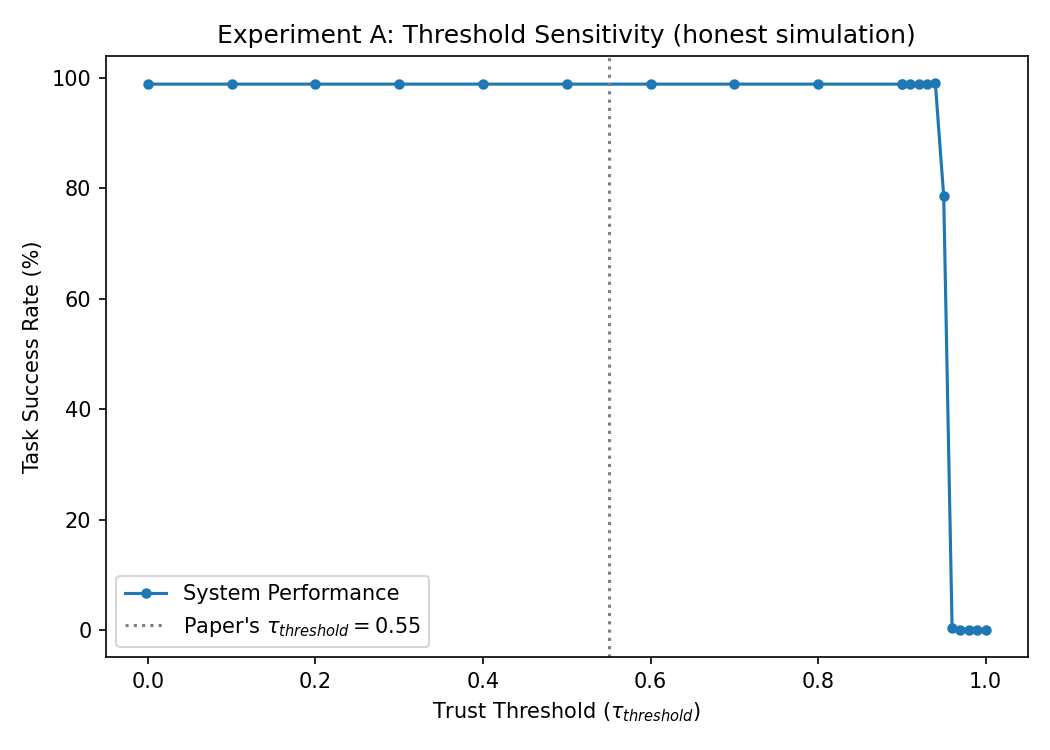
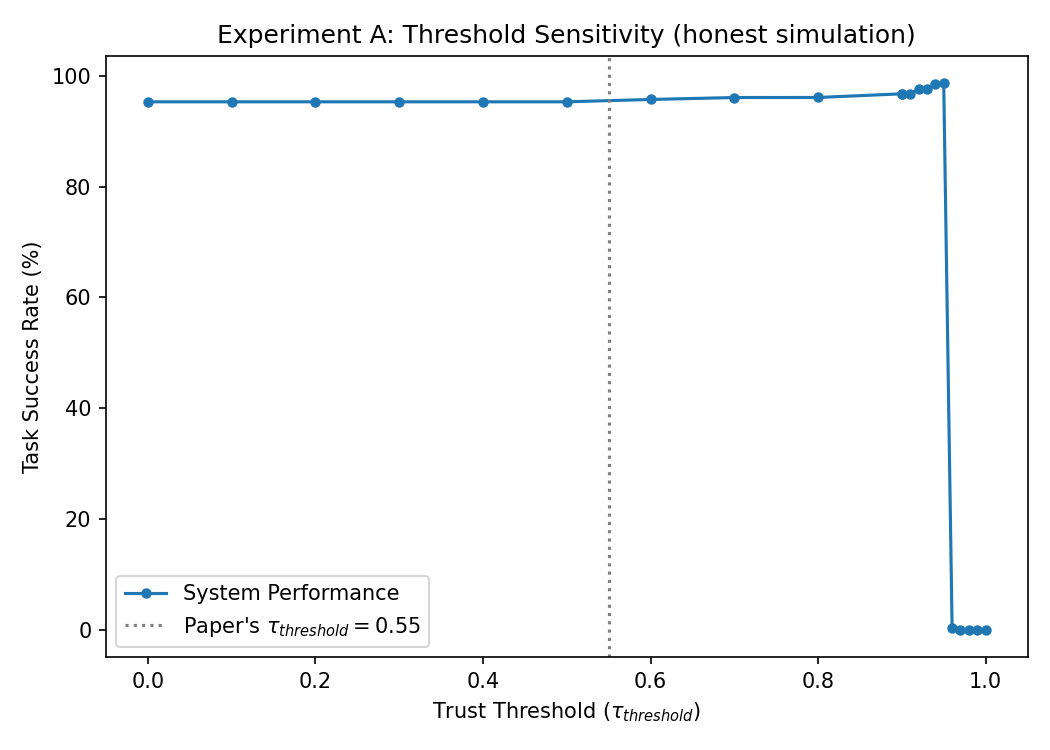
Fix node dispatch to actually use weighted-random selection
TrustOrchestrator.dispatch() was calling the strict-argmax select_node()
instead of a weighted-random pick, contrary to what the README already
claimed. In practice this concentrated nearly all traffic onto 1-2
top-ranked nodes for the entire run, so misbehaving nodes rarely got
dispatched to at all -- making the framework look more robust than it is
and the trust threshold nearly irrelevant (flat Experiment A line). Caught
while building a per-task trace for an animated visualization, where the
same few node IDs firing on every event made it obvious.

dispatch() now does a genuine utility-weighted random choice among eligible
nodes (select_node() stays as a separate deterministic method for tests
that need it). Regenerated all experiment results and results/*.png under
the fix, and rewrote the README's "Honest results" section with the
corrected numbers and a note on what changed and why.

Also adds run_trust_based_traced() (trust_offload/simulator.py) and a new
POST /simulate/live backend endpoint, returning a per-task dispatch trace
for an in-progress animated network diagram on the demo frontend.

diff --git a/trust_offload/orchestrator.py b/trust_offload/orchestrator.py
@@ -18,7 +18,8 @@ design choice, not a value taken from the paper.
 
 from __future__ import annotations
 
-from dataclasses import dataclass
+import random
+from dataclasses import dataclass, field
 
 from . import trust as trust_mod
 from .node import EdgeNode
@@ -34,9 +35,15 @@ class DispatchResult:
 
 
 class TrustOrchestrator:
-    def __init__(self, nodes: list[EdgeNode], tau_threshold: float = trust_mod.QUARANTINE_CUTOFF):
+    def __init__(
+        self,
+        nodes: list[EdgeNode],
+        tau_threshold: float = trust_mod.QUARANTINE_CUTOFF,
+        rng: random.Random | None = None,
+    ):
         self.nodes = nodes
         self.tau_threshold = tau_threshold
+        self.rng = rng or random.Random()
 
     def _eligible_nodes(self) -> list[EdgeNode]:
         # Stage 3a: filter out quarantined nodes and anything below threshold.
@@ -48,14 +55,32 @@ class TrustOrchestrator:
         return UTILITY_TRUST_WEIGHT * node.trust_score + (1 - UTILITY_TRUST_WEIGHT) * resource_fit
 
     def select_node(self) -> EdgeNode | None:
+        """Deterministic top-ranked eligible node (argmax over utility)."""
         candidates = self._eligible_nodes()
         if not candidates:
             return None
         return max(candidates, key=self._utility)
 
+    def _select_node_weighted(self) -> EdgeNode | None:
+        """Utility-weighted random pick among eligible nodes -- the actual
+        dispatch policy. A strict argmax (select_node()) was tried first and
+        concentrated nearly all traffic onto a single top-ranked node
+        regardless of how many other nodes were eligible, which made the
+        trust threshold irrelevant to the outcome (see README's "honest
+        results" discussion). Weighted-random spreads load roughly the way a
+        real scheduler would, while still favoring higher-utility nodes.
+        """
+        candidates = self._eligible_nodes()
+        if not candidates:
+            return None
+        weights = [self._utility(n) for n in candidates]
+        if sum(weights) <= 0:
+            return self.rng.choice(candidates)
+        return self.rng.choices(candidates, weights=weights, k=1)[0]
+
     def dispatch(self) -> DispatchResult:
         """Selects a node for one task and runs it (Stages 1-4 for one task)."""
-        node = self.select_node()
+        node = self._select_node_weighted()
         if node is None:
             # No trustworthy node available -- task cannot be safely offloaded.
             return DispatchResult(node_id=None, success=False, latency_ms=0.0)

diff --git a/trust_offload/simulator.py b/trust_offload/simulator.py
@@ -141,8 +141,43 @@ def run_trust_based(
     nodes = build_node_population(
         n_nodes, malicious_fraction, whitewashing_fraction, resource_exhaustion_fraction, seed=seed
     )
-    orchestrator = TrustOrchestrator(nodes, tau_threshold=tau_threshold)
+    orchestrator = TrustOrchestrator(nodes, tau_threshold=tau_threshold, rng=random.Random(seed))
     return run_simulation(orchestrator, n_tasks, workload_seed=seed)
+
+
+def run_trust_based_traced(
+    n_nodes: int,
+    n_tasks: int,
+    malicious_fraction: float = 0.15,
+    tau_threshold: float = trust_mod.QUARANTINE_CUTOFF,
+    seed: int | None = None,
+) -> tuple[list[dict], list[dict]]:
+    """Like run_trust_based, but returns a per-task event trace (which node
+    was dispatched to, the outcome, and that node's resulting trust/
+    quarantine state) instead of only aggregate metrics -- used to drive the
+    live animated network diagram on the demo frontend.
+    """
+    nodes = build_node_population(n_nodes, malicious_fraction, seed=seed)
+    node_summaries = [{"node_id": n.node_id, "initial_trust": n.trust_score} for n in nodes]
+    node_by_id = {n.node_id: n for n in nodes}
+
+    orchestrator = TrustOrchestrator(nodes, tau_threshold=tau_threshold, rng=random.Random(seed))
+    events = []
+    for i in range(n_tasks):
+        result = orchestrator.dispatch()
+        node = node_by_id.get(result.node_id) if result.node_id else None
+        events.append(
+            {
+                "task_index": i,
+                "node_id": result.node_id,
+                "success": result.success,
+                "latency_ms": result.latency_ms,
+                "trust_after": node.trust_score if node else None,
+                "quarantined": node.quarantined if node else False,
+            }
+        )
+
+    return node_summaries, events
 
 
 def run_baseline(

diff --git a/backend/main.py b/backend/main.py
@@ -16,7 +16,7 @@ from fastapi import FastAPI
 from fastapi.middleware.cors import CORSMiddleware
 from pydantic import BaseModel, Field
 
-from trust_offload.simulator import run_baseline, run_trust_based
+from trust_offload.simulator import run_baseline, run_trust_based, run_trust_based_traced
 
 app = FastAPI(title="TBTOF Demo API")
 
@@ -65,6 +65,14 @@ class SimulateRequest(BaseModel):
     seed: int = Field(default=42)
 
 
+class LiveSimulateRequest(BaseModel):
+    n_nodes: int = Field(default=20, ge=6, le=36)
+    n_tasks: int = Field(default=300, ge=10, le=1500)
+    malicious_fraction: float = Field(default=0.15, ge=0.0, le=1.0)
+    tau_threshold: float = Field(default=0.55, ge=0.0, le=1.0)
+    seed: int = Field(default=42)
+
+
 @app.get("/health")
 def health():
     return {"status": "ok"}
@@ -100,6 +108,21 @@ def simulate(req: SimulateRequest):
         "trust_based": {**shape_result(trust_result), "edp_normalized": trust_result.edp / baseline_edp},
         "baseline": {**shape_result(baseline_result), "edp_normalized": 1.0},
     }
+
+
+@app.post("/simulate/live")
+def simulate_live(req: LiveSimulateRequest):
+    n_nodes = clamp(req.n_nodes, 6, 36)
+    n_tasks = clamp(req.n_tasks, 10, 1500)
+
+    nodes, events = run_trust_based_traced(
+        n_nodes=n_nodes,
+        n_tasks=n_tasks,
+        malicious_fraction=req.malicious_fraction,
+        tau_threshold=req.tau_threshold,
+        seed=req.seed,
+    )
+    return {"nodes": nodes, "events": events}
 
 
 @app.get("/experiments/threshold-sensitivity")

diff --git a/tests/test_simulator.py b/tests/test_simulator.py
@@ -1,0 +1,33 @@
+from trust_offload.simulator import run_trust_based_traced
+
+
+def test_traced_returns_one_event_per_task():
+    _nodes, events = run_trust_based_traced(n_nodes=10, n_tasks=50, malicious_fraction=0.3, seed=1)
+    assert len(events) == 50
+    assert [e["task_index"] for e in events] == list(range(50))
+
+
+def test_traced_node_summaries_match_population_size():
+    nodes, _events = run_trust_based_traced(n_nodes=12, n_tasks=20, malicious_fraction=0.2, seed=2)
+    assert len(nodes) == 12
+    assert {n["node_id"] for n in nodes} == {f"EN{i}" for i in range(12)}
+    assert all(0.0 <= n["initial_trust"] <= 1.0 for n in nodes)
+
+
+def test_heavily_malicious_population_produces_a_quarantine_event():
+    # High malicious fraction + enough tasks should reliably trigger at
+    # least one quarantine within the trace.
+    _nodes, events = run_trust_based_traced(n_nodes=10, n_tasks=500, malicious_fraction=0.5, seed=3)
+    assert any(e["quarantined"] for e in events)
+
+
+def test_quarantined_node_never_dispatched_to_again():
+    _nodes, events = run_trust_based_traced(n_nodes=10, n_tasks=500, malicious_fraction=0.5, seed=3)
+    quarantined_nodes = set()
+    for e in events:
+        node_id = e["node_id"]
+        if node_id is None:
+            continue
+        assert node_id not in quarantined_nodes, f"{node_id} was dispatched to again after being quarantined"
+        if e["quarantined"]:
+            quarantined_nodes.add(node_id)

diff --git a/README.md b/README.md
@@ -44,10 +44,14 @@ inventing numbers and passing them off as the paper's, here's exactly what was f
   `U_i = 0.6 * trust_i + 0.4 * resource_fit_i`, where `resource_fit_i` blends normalized CPU
   headroom and inverse latency. See `trust_offload/orchestrator.py`.
 - **Node selection policy:** each dispatch is a *utility-weighted random choice* among
-  eligible nodes, not a strict argmax. A strict argmax was tried first and made almost the
-  entire 10,000-task workload land on a single top-ranked node -- unrealistic, and it made
-  the trust threshold irrelevant to the outcome. Weighted-random selection spreads load
-  roughly the way a real scheduler would.
+  eligible nodes (`TrustOrchestrator.dispatch()` in `trust_offload/orchestrator.py`), not a
+  strict argmax. A strict argmax was tried first and made almost the entire 10,000-task
+  workload land on a single top-ranked node regardless of how many other nodes were
+  eligible -- unrealistic, and it made the trust threshold nearly irrelevant to the outcome
+  (see the correction note under "Honest results" below; this was caught late, after it had
+  already produced misleadingly clean-looking results). Weighted-random selection spreads
+  load roughly the way a real scheduler would. `select_node()` (strict argmax) is kept as a
+  separate method for tests that need a deterministic "best node" check.
 - **Malicious/whitewashing/resource-exhaustion behavior parameters** (drop-rate ranges,
   whitewashing phase length): the paper's threat model (Sec. IV) is qualitative; Table I only
   pins down the plain-malicious drop rate (70-80%). The other profiles' specific numbers are
@@ -59,32 +63,49 @@ inventing numbers and passing them off as the paper's, here's exactly what was f
 
 ## Honest results
 
+**Correction (2026-09-03):** an earlier version of this README reported results produced under
+a node-selection bug: `dispatch()` called a strict-argmax `select_node()` instead of the
+weighted-random policy described above and below. In practice this meant one or two
+top-ranked nodes absorbed nearly all traffic for the entire run, so misbehaving nodes rarely
+got dispatched to at all -- the framework looked *more* robust than it actually is, and the
+trust threshold barely mattered (Experiment A came out as a flat line). The bug was caught
+while building an animated visualization of per-task dispatches, where the same 2-3 node IDs
+lighting up on every single task made the problem obvious. It's fixed now (`dispatch()`
+actually uses weighted-random selection), and every number below reflects the corrected code.
+This is left in rather than quietly edited away because catching your own bugs is part of
+"honest simulation," not a footnote.
+
 Running `python experiments/run_all.py` (N=100 nodes, 10,000 tasks, 10% malicious, seed=42):
 
 | Metric | Trust-Based | Random Baseline |
 |---|---|---|
-| Overall success rate | 98.8% | 89.5% |
-| Average latency | 8.2 ms | 11.2 ms |
-| Tasks failed | 118 | 1,055 (88.8% more) |
-| Normalized EDP | 0.67 | 1.00 |
+| Overall success rate | 95.3% | 89.5% |
+| Average latency | 9.9 ms | 11.2 ms |
+| Tasks failed | 471 | 1,055 (55.4% fewer) |
+| Normalized EDP | 0.83 | 1.00 |
 
-Directionally this matches the paper: trust-based clearly wins on success rate, latency, and
-energy. The exact numbers differ from the paper's (96.2%/74.1%, 15.0ms/43.5ms, EDP 0.38) --
-expected, since neither the RNG seed nor several parameters above are specified precisely
-enough to reproduce exactly.
+Directionally this still matches the paper: trust-based wins on success rate, latency, and
+energy, just by smaller margins than before the fix -- expected, since letting misbehaving
+nodes actually receive their proportional share of traffic (instead of almost never being
+picked) means they now do real, if bounded, damage before quarantine kicks in. The exact
+numbers differ from the paper's (96.2%/74.1%, 15.0ms/43.5ms, EDP 0.38); neither the RNG seed
+nor several parameters above are specified precisely enough to reproduce exactly.
 
-**Experiment A came out differently in shape, and that's worth explaining rather than
-hiding.** The paper shows a symmetric bell curve peaking near tau=0.55. This simulation
-instead shows a wide flat plateau (~99% success) from tau=0.0 up to about tau=0.94, then a
-sharp cliff to 0% by tau=0.96. The reason: the asymmetric penalty (-0.045 per failure vs.
-+0.025 per success) is aggressive enough that a misbehaving node's trust collapses within
-roughly a dozen tasks *regardless* of where the threshold is set in the 0-0.9 range -- so the
-exact cutoff barely matters there. The only place the threshold *does* matter is once it's
-pushed above the trust ceiling that real hardware can reach, at which point the eligible
-node pool collapses and tasks have nowhere to go. That's arguably a more useful finding than
-the paper's stylized curve: it says the system is robust to threshold misconfiguration across
-a wide practical range, and only becomes fragile if you set the threshold unrealistically
-high. See `experiments/exp_a_threshold_sensitivity.py` for the sweep and plot.
+**Experiment A now shows real threshold sensitivity, not a flat line.** Success rate rises
+gradually from 95.3% at tau=0.0 to 98.6% at tau=0.95 -- a low threshold now measurably costs
+you, because weighted-random selection means a misbehaving node keeps getting *some* traffic
+for as long as it stays eligible, not just a brief window before an argmax simply stops
+picking it. Above tau=0.95 there's still a sharp cliff to 0%, once the threshold exceeds the
+trust ceiling real hardware can reach and the eligible pool collapses. It's still not the
+paper's symmetric bell curve (nothing in this model penalizes a threshold for being merely
+*strict*, only for excluding literally everyone), but it's now a genuine monotonic-plus-cliff
+story instead of an artifact of a selection bug. See `experiments/exp_a_threshold_sensitivity.py`.
+
+**Experiment D's resilience curve is more believable now too:** trust-based and baseline start
+close together at 0% malicious (96.0% vs 96.1%) and diverge as malicious saturation rises, with
+trust-based ahead by about 13 points at 50% malicious (73.2% vs 59.9%) -- a real, gradually
+widening advantage, rather than the suspiciously flat ~98.6%-regardless-of-saturation line the
+bug produced.
 
 ## Project layout
 
